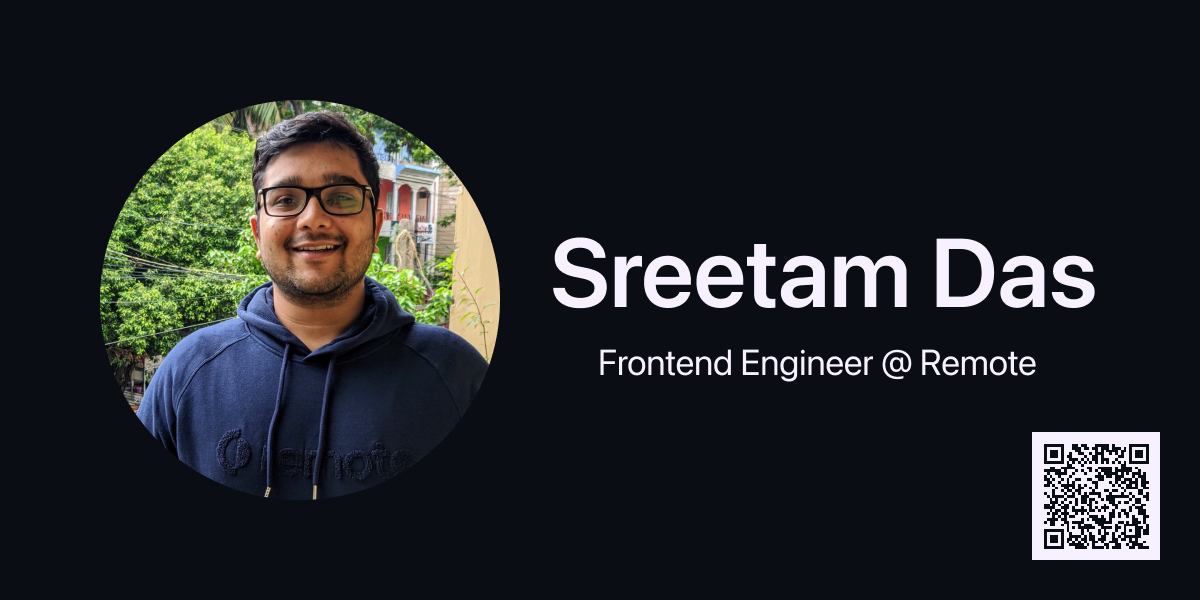
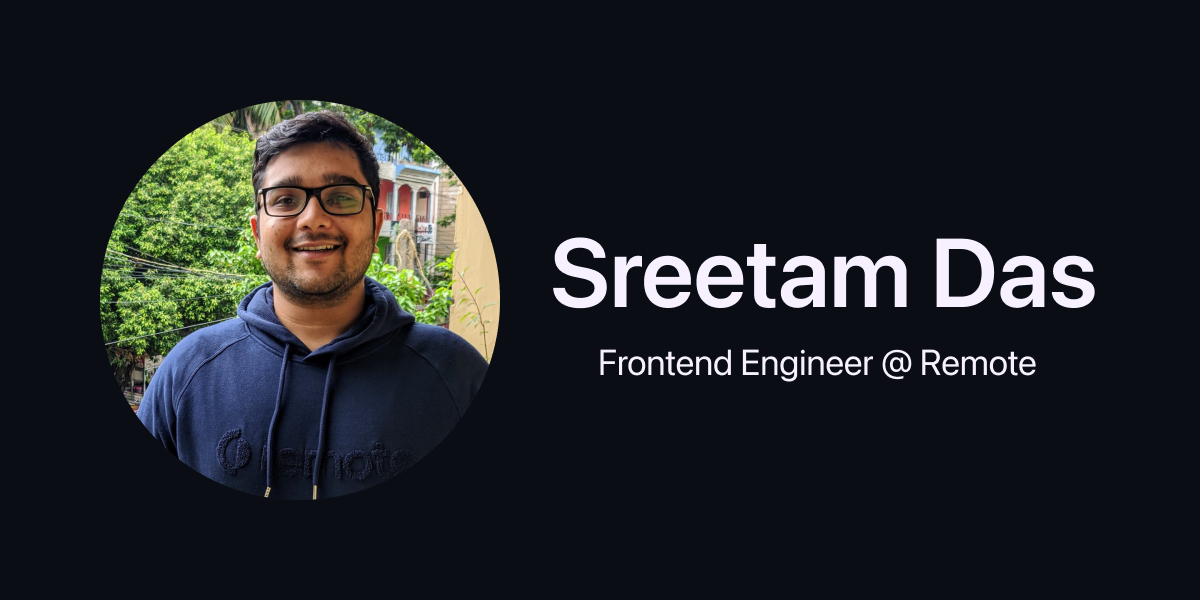
feat(foobar): move the QR clue to the /foobar share card

Changed region(s): [[0.8325, 0.72, 0.9867, 0.96]]

diff --git a/e2e/foobar.spec.ts b/e2e/foobar.spec.ts
@@ -527,6 +527,28 @@ test("publishes machine-facing and print-only clues", async ({ page, request }) 
 	await expect(printClue).toBeVisible();
 });
 
+test("uses the Foobar social card only on the Foobar page", async ({ page }) => {
+	await page.goto("/foobar");
+	await expect(page.locator('meta[property="og:image"]')).toHaveCount(1);
+	await expect(page.locator('meta[property="og:image"]')).toHaveAttribute(
+		"content",
+		/\/og-foobar\.png$/,
+	);
+	await expect(page.locator('meta[name="twitter:image"]')).toHaveCount(1);
+	await expect(page.locator('meta[name="twitter:image"]')).toHaveAttribute(
+		"content",
+		/\/og-foobar\.png$/,
+	);
+
+	await page.goto("/about");
+	await expect(page.locator('meta[property="og:image"]')).toHaveCount(1);
+	await expect(page.locator('meta[property="og:image"]')).toHaveAttribute(
+		"content",
+		/\/og-image\.png$/,
+	);
+	await expect(page.locator('meta[name="twitter:image"]')).toHaveCount(1);
+});
+
 test("claims the well-known notice and announces it with its display title", async ({ page }) => {
 	await seedProgress(page);
 	await page.goto(getFoobarRewardPath("well-known"));

diff --git a/src/routes/(main)/(foobar)/foobar/index.tsx b/src/routes/(main)/(foobar)/foobar/index.tsx
@@ -3,10 +3,22 @@ import { createFileRoute } from "@tanstack/react-router";
 import { SITE_TITLE_APPEND } from "@/config";
 import { FoobarSchrodinger } from "@/lib/domains/foobar/DashboardClient";
 import { StatsCounter } from "@/lib/domains/PageInteraction/StatsCounter";
+import { absoluteUrl } from "@/lib/seo";
 
 export const Route = createFileRoute("/(main)/(foobar)/foobar/")({
 	component: FoobarPage,
-	head: () => ({ meta: [{ title: `/foobar ${SITE_TITLE_APPEND}` }] }),
+	head: () => {
+		const ogImage = absoluteUrl("/og-foobar.png");
+		return {
+			meta: [
+				{ title: `/foobar ${SITE_TITLE_APPEND}` },
+				{ property: "og:image", content: ogImage },
+				{ property: "og:image:width", content: "1200" },
+				{ property: "og:image:height", content: "600" },
+				{ name: "twitter:image", content: ogImage },
+			],
+		};
+	},
 });
 
 function FoobarPage() {

diff --git a/src/lib/domains/foobar/static-clues.test.ts b/src/lib/domains/foobar/static-clues.test.ts
@@ -2,7 +2,7 @@
  * Contract coverage for Foobar clues that live outside the React catalogue.
  * These assertions protect generated/static surfaces from quiet cleanup.
  */
-import { readFileSync } from "node:fs";
+import { existsSync, readFileSync } from "node:fs";
 import { resolve } from "node:path";
 import { describe, expect, test } from "vitest";
 
@@ -27,6 +27,11 @@ describe("Foobar static clues", () => {
 
 	test("keeps the feed-reader clue in the generated RSS feed", () => {
 		expect(read("public/rss/feed.xml")).toContain(getFoobarRewardPath("feed-reader"));
+	});
+
+	test("ships the QR clue on the Foobar-only social card", () => {
+		expect(existsSync(resolve(root, "public/og-foobar.png"))).toBe(true);
+		expect(read("src/routes/(main)/(foobar)/foobar/index.tsx")).toContain("/og-foobar.png");
 	});
 
 	test("defines a print-only clue", () => {

diff --git a/src/lib/domains/foobar/catalog.ts b/src/lib/domains/foobar/catalog.ts
@@ -474,9 +474,12 @@ export const FOOBAR_ACHIEVEMENTS = {
 		completion: { id: "og-qr:completed", note: "The social card answered a scanner." },
 		hints: [
 			{ id: "og-qr:hint:1", text: "Shared pages carry a picture most visitors never open." },
-			{ id: "og-qr:hint:2", text: "Inspect the site's Open Graph image." },
-			{ id: "og-qr:hint:3", text: "Look closely for a small square code in /og-image.png." },
-			{ id: "og-qr:hint:4", text: "Scan the QR code and follow /foobar/og-qr." },
+			{ id: "og-qr:hint:2", text: "Inspect the social card shared for the /foobar page." },
+			{ id: "og-qr:hint:3", text: "Look closely for a small square code on that card." },
+			{
+				id: "og-qr:hint:4",
+				text: "Scan the QR code on the /foobar social card and open the path it decodes to.",
+			},
 		],
 	},
 	"cookie-jar": {

diff --git a/src/lib/domains/foobar/README.md b/src/lib/domains/foobar/README.md
@@ -49,7 +49,8 @@ The original design docs were removed from the repo in `963f204a`; read them wit
 Routes: `src/routes/(main)/(foobar)/foobar/` (dashboard, `$slug` achievement pages,
 `certificate/$token`) and `src/routes/(api)/api/foobar/` (cookie challenge, certificate OG
 image). Static clue surfaces: `public/robots.txt`, `public/.well-known/security.txt`,
-`public/foobar-sw.js`, `public/.well-known/foobar`, the generated RSS feed, and the site OG image's QR code.
+`public/foobar-sw.js`, `public/.well-known/foobar`, the generated RSS feed, and the
+Foobar-only social card (`public/og-foobar.png`).
 
 ## Adding an achievement
 
